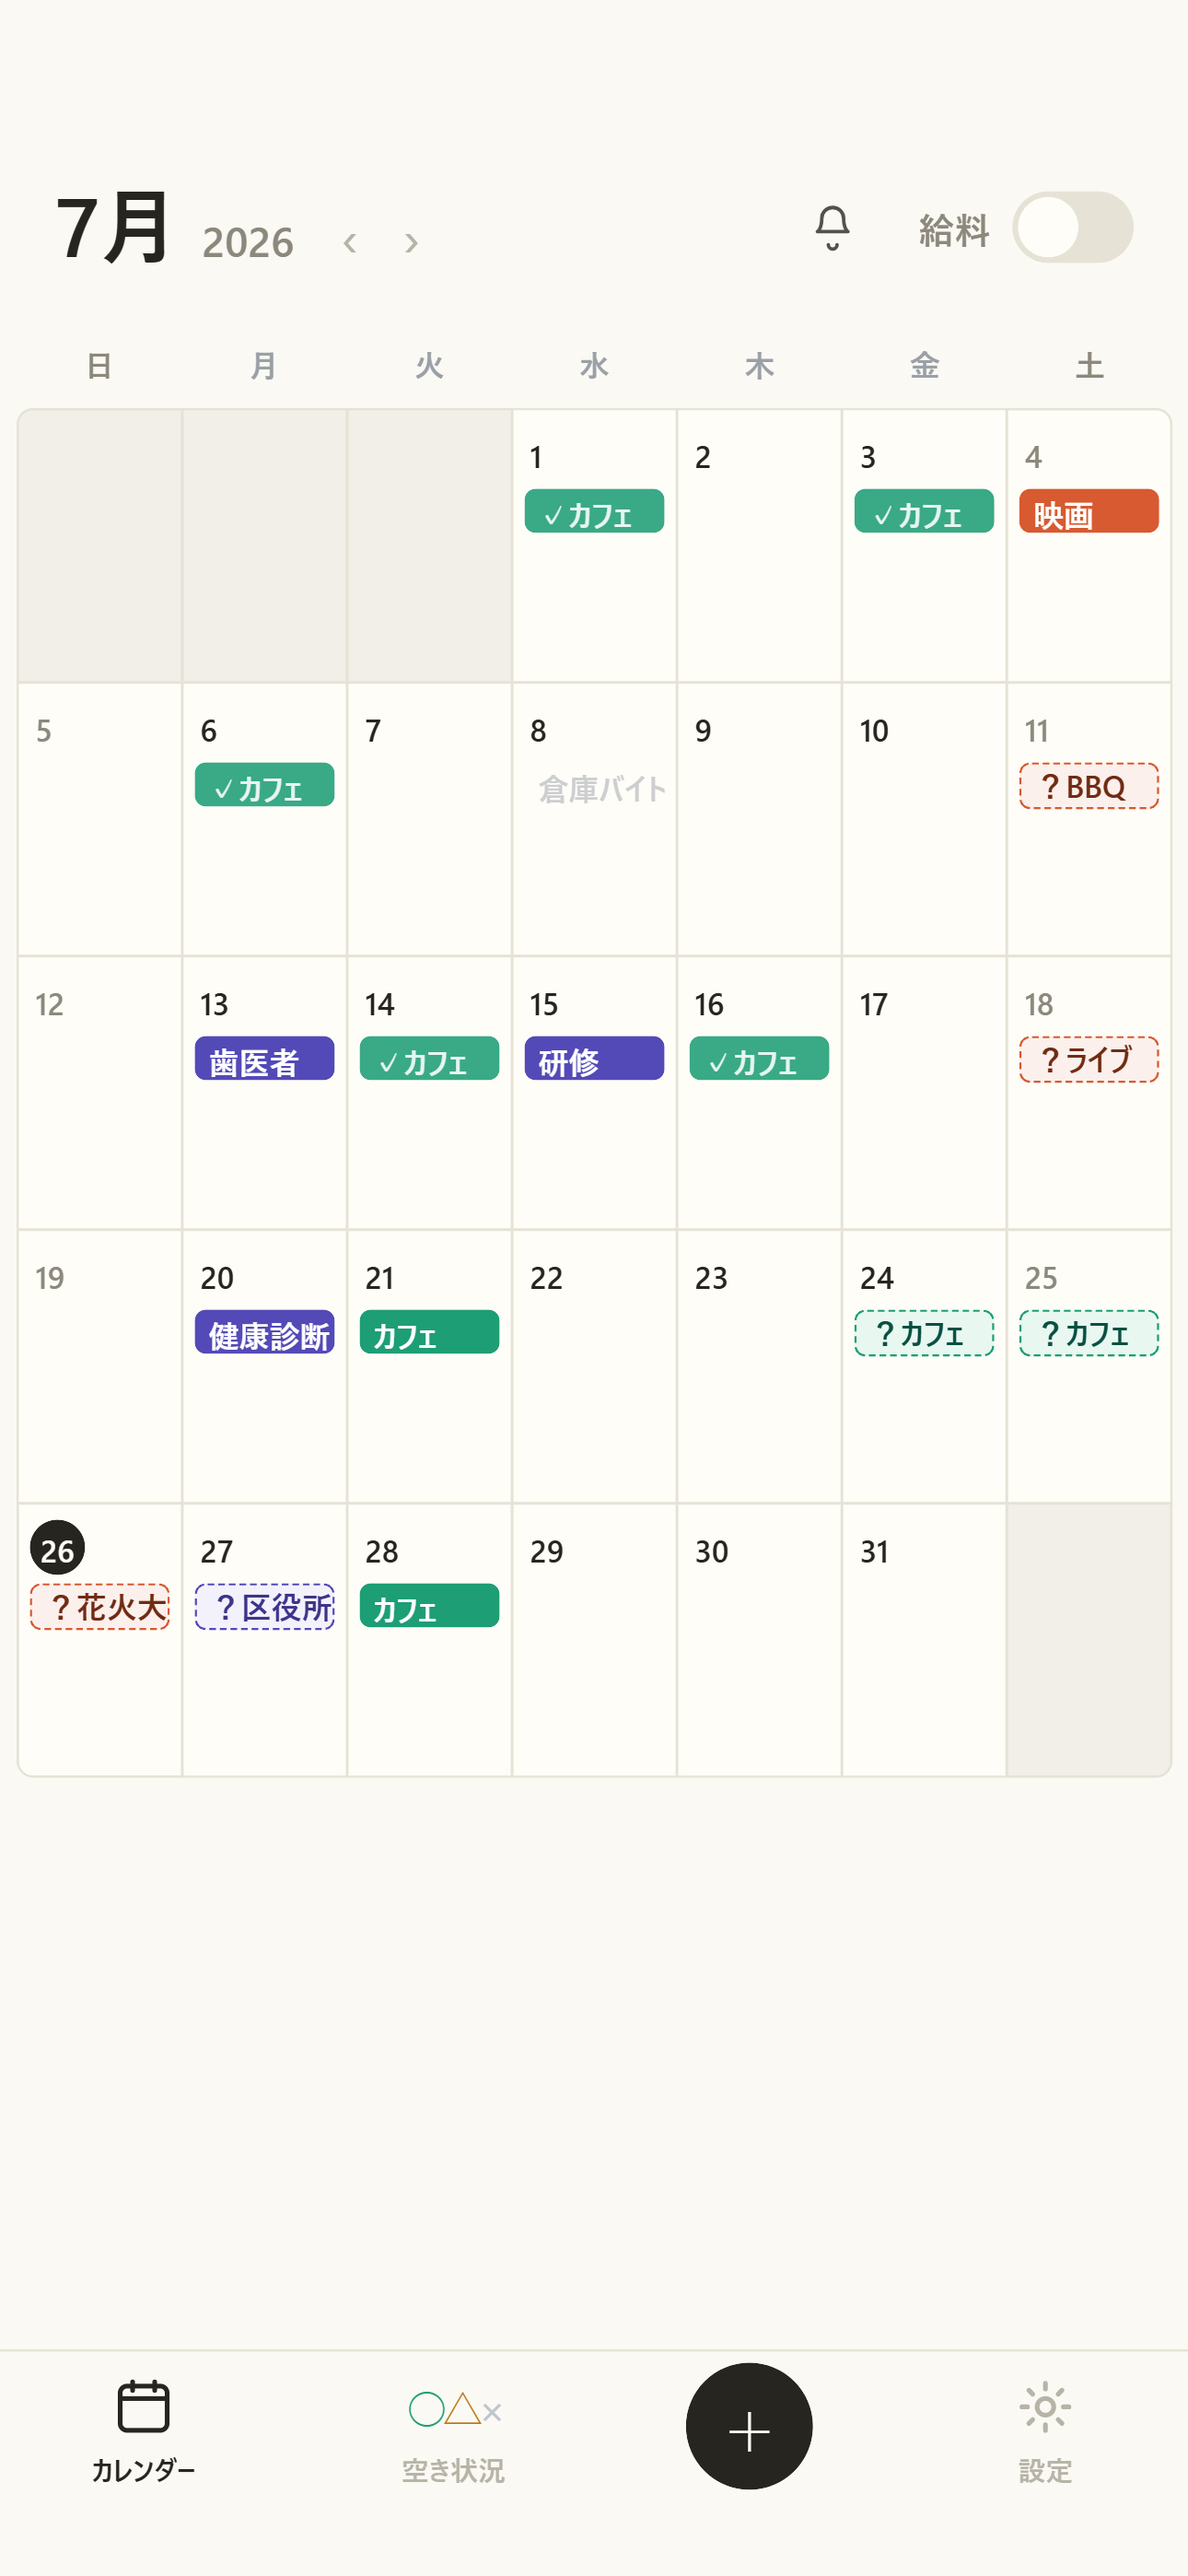
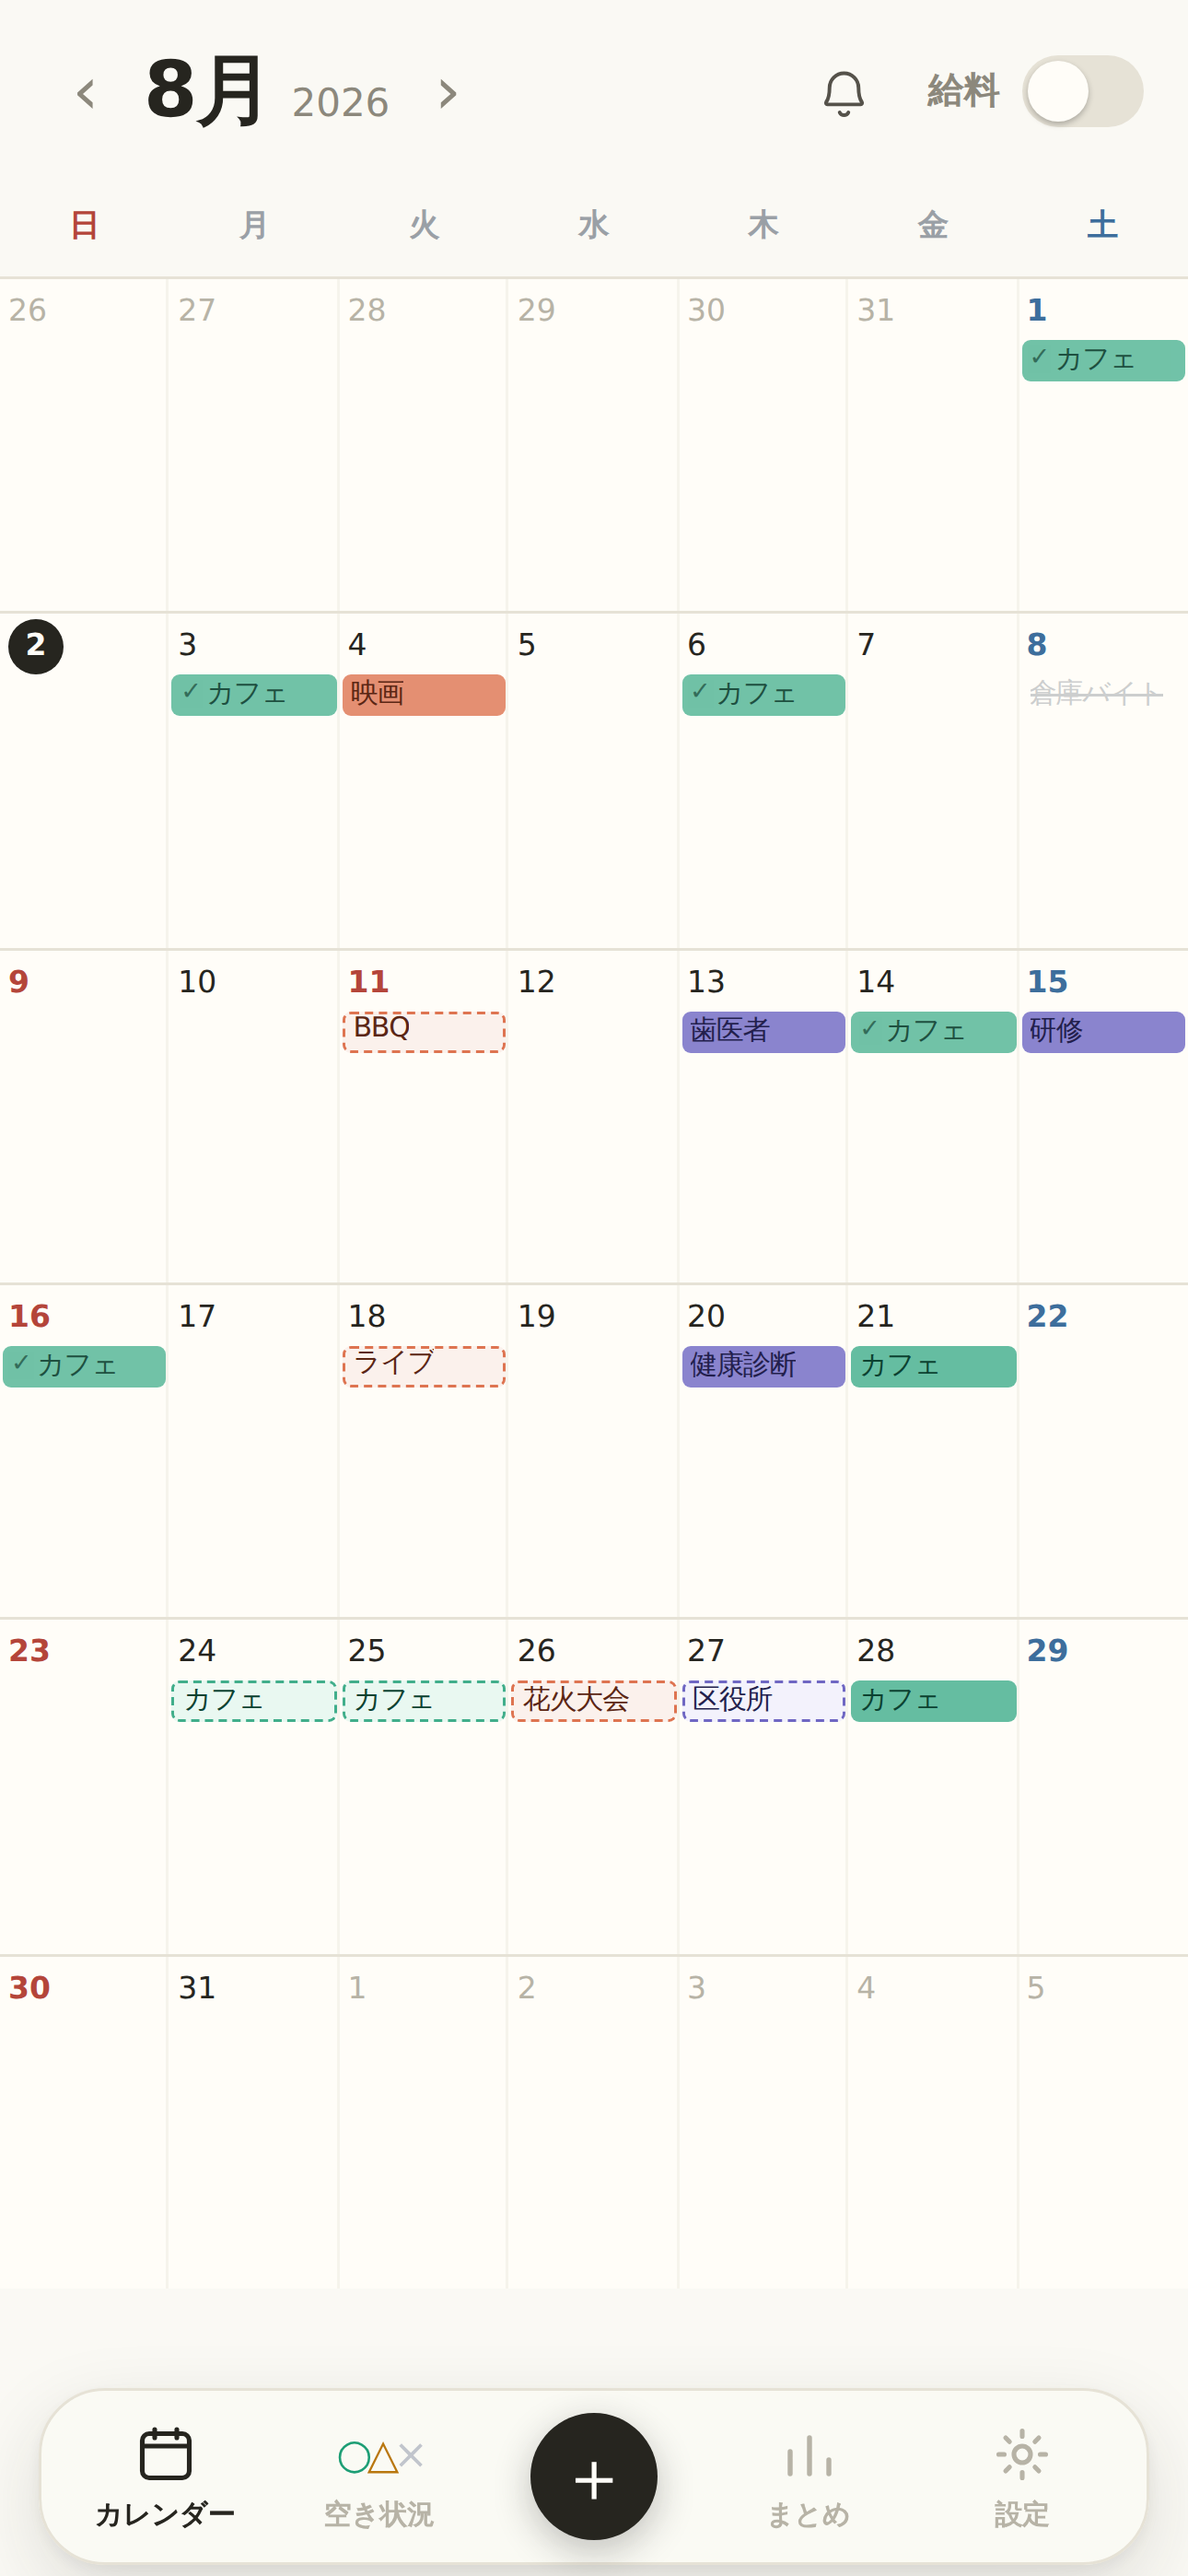
スクリーンショットを撮り直し、撮る道具を置く
前の5枚は古かった。ナビが4つのまま（いまは まとめ を入れて5つ）で、
月表示にも外枠と左右の余白が残っていた（v0.12.1 で全幅にしている）。

tools/make-shots.mjs を足した。430×932 の CSS ピクセルを
deviceScaleFactor 3 で撮ると、ちょうど 1290×2796（6.9インチ）になる。
予定は ?demo=1 のサンプルを流し込む。

確認ダイアログの1枚が長らく撮れず「実機で撮る」宿題になっていたが、
本物のブラウザで撮れば重なりも背景のぼかしも出る。実機での撮影は要らなくなった。
html2canvas が描けなかっただけで、画面のほうに問題は無かった。

見出しは種類で変わるので2種類撮ってある。
  バイト → このシフト、どうなりました？（本命。説明文の言い回しと揃う）
  遊び   → 約束、決まった？（控え）

playwright は package.json に入れていない。postinstall がブラウザ本体を
落としに行くので、常設すると Codemagic のビルドが重くなる。撮るときだけ入れる。

月表示の帯は pointer-events:none なので、帯ではなくその下のマスを押す。
「カフェ」の帯は月内に複数あるため、未確定を枠線が破線かどうかで選び分けている
（文字は span で、破線は親の帯に付いている）。

Claude-Session: https://claude.ai/code/session_01Lj7neatzxSibcNeHVWyy53

diff --git a/app/README.md b/app/README.md
@@ -215,9 +215,11 @@ cd app && npx cap sync ios
 
 ## 検証のしかた（重要）
 
-この環境ではスクリーンショット生成（html2canvas）が
+スクリーンショット生成に html2canvas を使うと、
 **アニメーション中の要素・transform・重なりを正しく描けない**。
 過去にこれを「描画ツールの制約」と誤判断して、実機に崩れたまま出してしまったことがある。
+確認ダイアログの1枚が長らく撮れなかったのもこれが理由。
+**いまは `tools/make-shots.mjs` が本物のブラウザで撮るので、重なりもぼかしも出る。**
 
 **レイアウトは必ず実寸で確かめる。**
 
@@ -244,6 +246,18 @@ npm i -D sharp && node tools/make-icon.mjs
 ```
 アプリアイコンを作り直す。
 
+```bash
+npm run build && npm run preview          # 別のターミナルで動かしておく
+npm i -D playwright && npx playwright install chromium
+node tools/make-shots.mjs
+```
+App Store 用のスクリーンショットを撮り直す（6.9インチ・1290×2796）。
+`store-assets/screenshots-6.9/` に8枚書き出す。予定は `?demo=1` のサンプル。
+
+**playwright は `package.json` に入れていない。** postinstall がブラウザ本体
+（150MBほど）を落としに行くので、常設すると Codemagic のビルドが重くなる。
+撮るときだけ入れて、済んだら消してよい。
+
 ## 公開しているもの
 
 - リポジトリ: https://github.com/KaitoIwaki/kimatteru
@@ -255,7 +269,7 @@ npm i -D sharp && node tools/make-icon.mjs
 `store-assets/app-store-metadata.md` に説明文・キーワード・審査メモ・チェックリストがある。
 
 1. 実機で最終確認
-2. **確認ダイアログのスクリーンショットを実機で撮る**（生成できなかった1枚）
+2. ~~確認ダイアログのスクリーンショットを実機で撮る~~ → `tools/make-shots.mjs` で生成できるようになった
 3. App Store Connect に説明文とスクショを登録
 4. EU の trader status を申告
 5. 審査に提出
